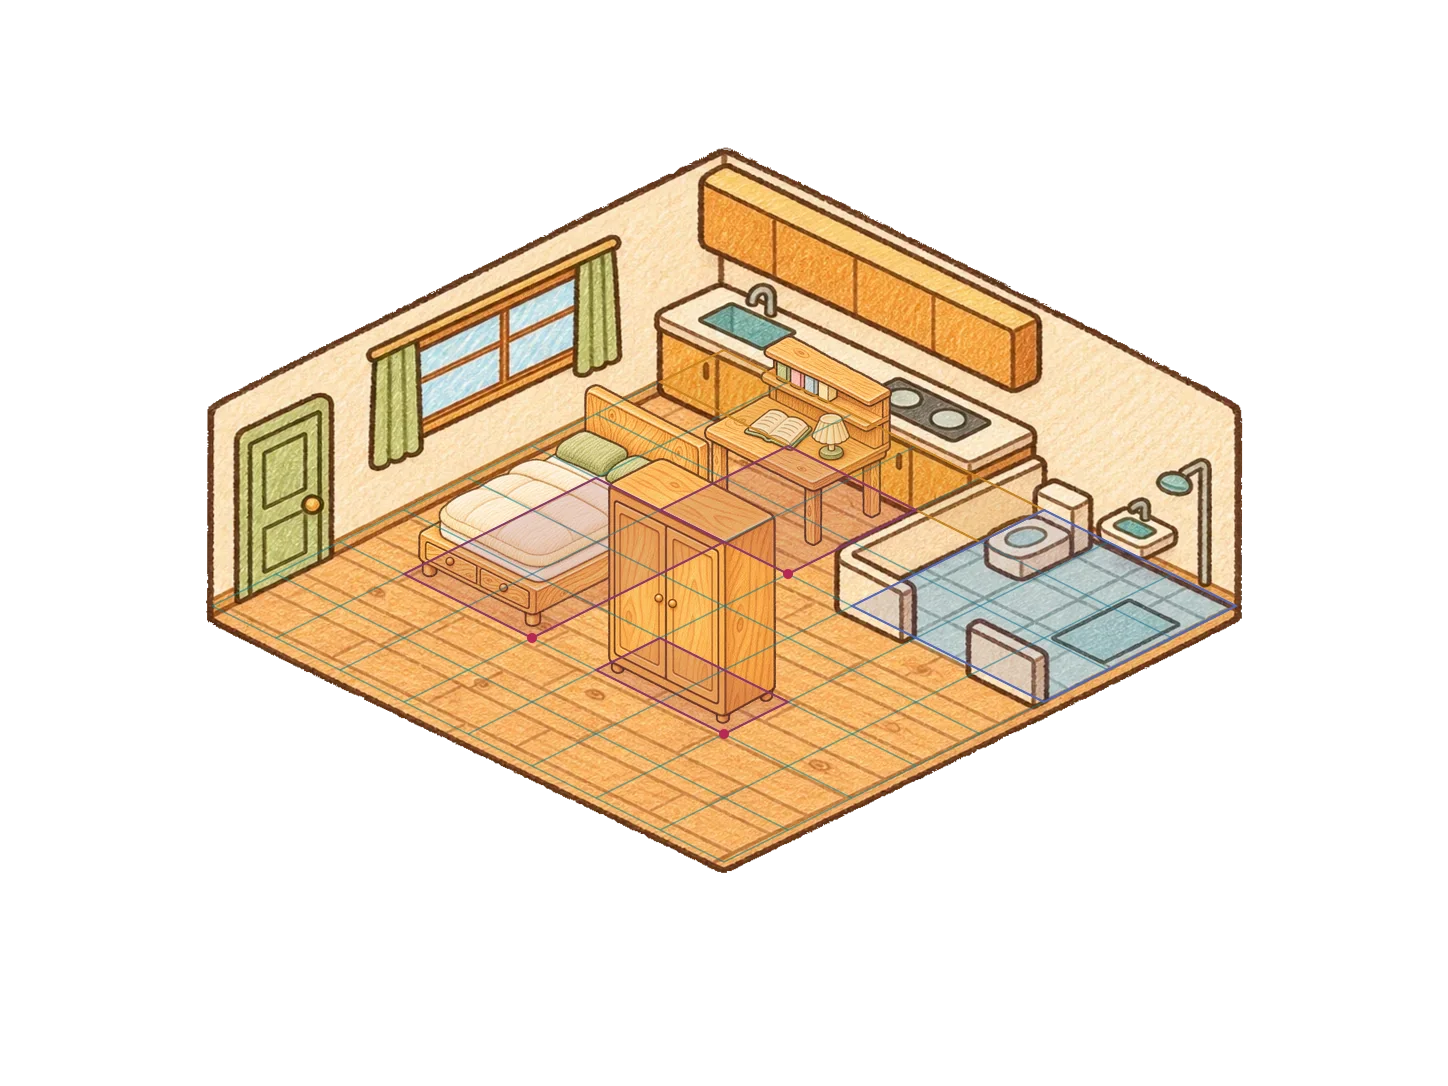
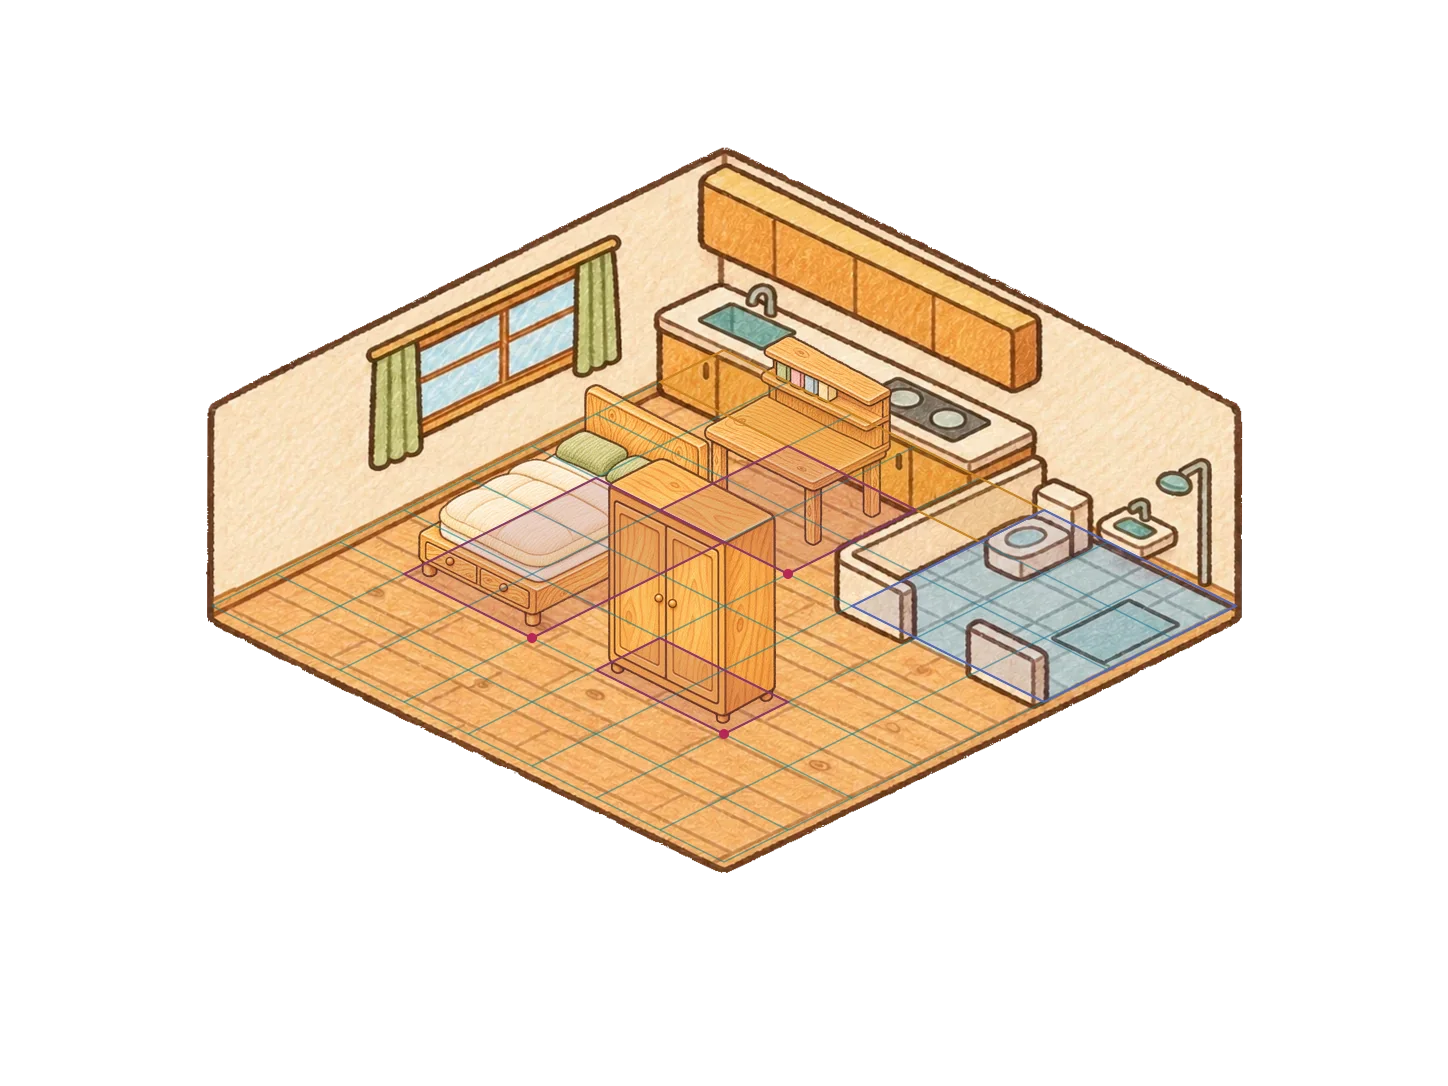
fix(assets): clear desk surfaces and remove rental door for #124

diff --git a/assets/style-sample/README.md b/assets/style-sample/README.md
@@ -13,7 +13,15 @@ Phạm vi theo bình luận [6629307790](https://github.com/xsdaigiasx/lifesimu/
 
 Ảnh đều độc lập, có alpha trong suốt, dưới 150.000 byte. Không ghi đè hoặc nối vào `app/public` trong PR thử. Basename, khung, chân đế, chiều cao và neo của từng hướng giữ đúng manifest lô 5. `manifest.json` ghi đầy đủ giá trị, hash và dung lượng thực. Nguồn ảnh AI mới và prompt đi kèm để tiếp tục chỉnh nét.
 
-Vỏ phòng chỉ có sàn, tường, cửa, cửa sổ và bếp/phòng tắm cố định; không có đồ đặt được, dép hay mèo trên sàn. Bếp `(0,0) 5×1`, phòng tắm `(5,0) 3×3`, lối mở tại `y=3, x=6..7`. Đồ trên mặt bàn thuộc sprite bàn; mặt sau tủ và kệ có hình riêng, không lật ảnh mặt trước.
+Vỏ phòng chỉ có sàn, tường, cửa sổ và bếp/phòng tắm cố định; không có cửa ra vào, đồ đặt được, dép hay mèo trên sàn. Bếp `(0,0) 5×1`, phòng tắm `(5,0) 3×3`, lối mở tại `y=3, x=6..7`. Cả bốn mặt bàn đều trống để đặt đèn và các món `mount: surface` riêng; sách trong kệ được giữ lại. Mặt sau tủ và kệ có hình riêng, không lật ảnh mặt trước.
+
+## Sửa hai lỗi chặn sau ghép thử
+
+Theo [review 6630177184](https://github.com/xsdaigiasx/lifesimu/issues/124#issuecomment-6630177184):
+
+- Đã sửa ảnh nguồn và xuất lại bàn a/b/c/d: bỏ cả đèn (kể cả phần chụp lộ phía sau kệ) và sách mở trên mặt bàn. Không vẽ kèm món đặt được; sách nằm trong kệ giữ nguyên.
+- Chủ dự án yêu cầu **bỏ cửa**, thay cho phương án dời/thu cửa. Vỏ phòng nay không vẽ cửa ra vào ở bất kỳ tường nào; chỗ cửa cũ được trả về tường kem và chân tường. `room.entry_door.baked=false`, vị trí và vùng cấm treo tranh do cửa đều `null`. Claude không cần khóa vùng tường trái y=5..7 vì cửa của bản này. Các ràng buộc treo tranh khác của game không thay đổi.
+- Bản sửa tiếp nối PR #130 sau khi PR đó đã được gộp. Chỉ sửa asset thử và metadata, không đổi logic vào/ra nhà hay vùng treo tranh trong game.
 
 ## Lưới và neo
 
